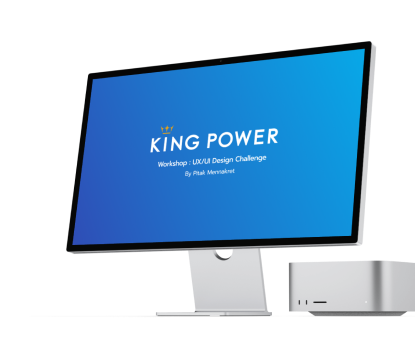
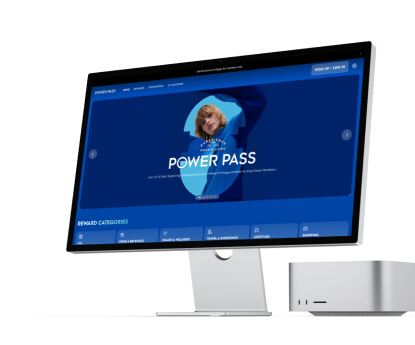
edit

diff --git a/index.html b/index.html
@@ -586,9 +586,9 @@
               </div>
               <p>
                 <span></span>
-                This is a workshop that I went to study at King Power Company.
-                It is a workshop to improve online retail applications for 3
-                customer generations.
+                POWER PASS is a new membership program by King Power that
+                integrates various privileges into one platform to provide a
+                more convenient and rewarding shopping experience.
               </p>
               <a
                 href="https://www.figma.com/design/bmELRLzxz44ddEQrSby5UQ/The-Able-by-King-Power?node-id=0-1&t=SrxdUhGXtRlihzmc-1&classId=e42a07a6-960a-4cbb-a019-643260682804&assignmentId=082349ff-7420-49d9-b370-2257737497d8&submissionId=8760a793-4314-e960-15ec-ba15bae2cc9a"
